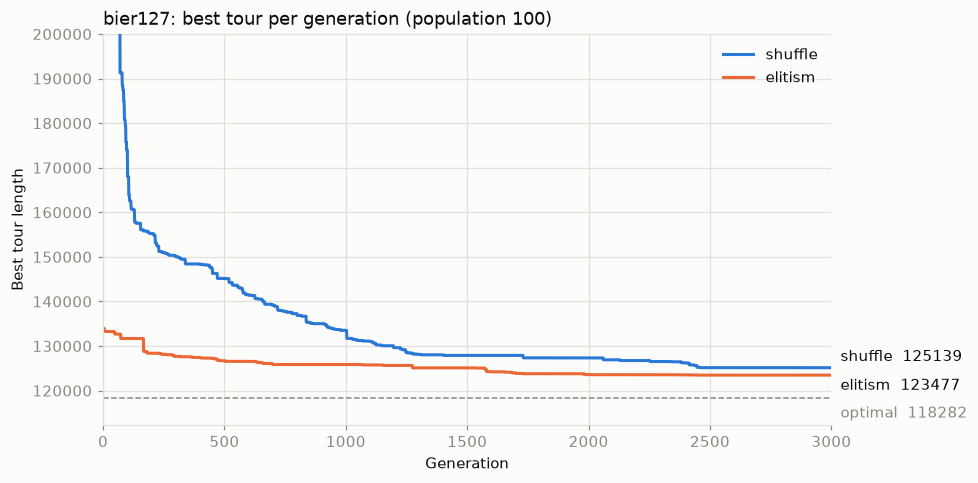
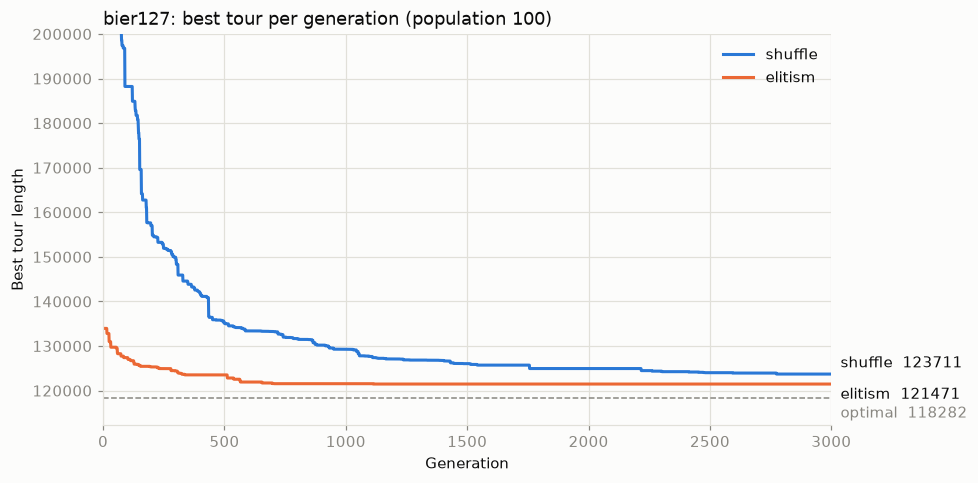
Default to a 50/50 one-point/OX crossover mix and document the comparison
- DEFAULT_CROSSOVER_MIX is now one-point 50%, OX 50%, the best mix when
  comparing six mixes on berlin52, bier127 and a280
- docs/compare_crossovers.py reruns the comparison
- README: crossover comparison table, GUI steps for the crossover mix,
  control panel close-up; screenshots and figures regenerated

diff --git a/docs/compare_crossovers.py b/docs/compare_crossovers.py
@@ -1,0 +1,64 @@
+# -*- coding: utf-8 -*-
+"""
+Compare crossover mixes, as in the README's "Comparing the crossovers" table:
+
+    python docs/compare_crossovers.py
+
+Every mix gets the same time budget on each problem, repeated with a few random
+seeds. The result is the average gap between the best tour found and the known
+optimum (lower is better). With the defaults it takes about 9 minutes; use
+--seconds and --runs to trade time for accuracy.
+"""
+
+import argparse
+import os
+import random
+import statistics
+import sys
+import time
+
+ROOT = os.path.dirname(os.path.dirname(os.path.abspath(__file__)))
+sys.path.insert(0, ROOT)
+
+from tsp_ga import GeneticAlgorithm  # noqa: E402  (needs the path above)
+from tsp_ga_init_pop import create_initial_population  # noqa: E402
+from tsp_parser import read_tsp_file  # noqa: E402
+
+OPTIMAL_LENGTHS = {"berlin52": 7542, "bier127": 118282, "a280": 2579}  # published by TSPLIB
+MIXES = {
+    "one-point 100%": {"one-point": 100},
+    "PMX 100%": {"pmx": 100},
+    "OX 100%": {"ox": 100},
+    "one-point/PMX 80/20": {"one-point": 80, "pmx": 20},
+    "one-point/OX 50/50": {"one-point": 50, "ox": 50},
+    "equal 34/33/33": {"one-point": 34, "pmx": 33, "ox": 33},
+}
+
+
+def main():
+    parser = argparse.ArgumentParser(description="Compare crossover mixes on a few TSPLIB problems.")
+    parser.add_argument("--seconds", type=float, default=10, help="time budget per run (default 10)")
+    parser.add_argument("--runs", type=int, default=3, help="runs per mix and problem (default 3)")
+    parser.add_argument("--population", type=int, default=100, help="population size (default 100)")
+    args = parser.parse_args()
+
+    print("%-20s %s" % ("mix", "  ".join("%9s" % name for name in OPTIMAL_LENGTHS)))
+    problems = {name: read_tsp_file(os.path.join(ROOT, "TSP_Problems", name + ".tsp")) for name in OPTIMAL_LENGTHS}
+    for label, mix in MIXES.items():
+        gaps = []
+        for name, problem in problems.items():
+            run_gaps = []
+            for seed in range(1, args.runs + 1):
+                random.seed(seed)  # the same seeds for every mix, so every mix gets the same start
+                tours = create_initial_population(problem, args.population, "elitism")
+                ga = GeneticAlgorithm(problem, tours, 0.9, mix)
+                stop_at = time.time() + args.seconds
+                while time.time() < stop_at:
+                    ga.step()
+                run_gaps.append(100.0 * (ga.best_length - OPTIMAL_LENGTHS[name]) / OPTIMAL_LENGTHS[name])
+            gaps.append(statistics.mean(run_gaps))
+        print("%-20s %s" % (label, "  ".join("%8.1f%%" % gap for gap in gaps)), flush=True)
+
+
+if __name__ == "__main__":
+    main()

diff --git a/tsp_ga.py b/tsp_ga.py
@@ -35,11 +35,12 @@ from tsp_ga_init_pop import nearest_neighbour_tour
 
 # The crossovers a pair of parents can be bred with, and the default share of
 # pairs (in percent) that use each one. See GeneticAlgorithm.crossover_mix.
+# Half one-point, half OX was the best mix in docs/compare_crossovers.py.
 CROSSOVER_ONE_POINT = "one-point"
 CROSSOVER_PMX = "pmx"
 CROSSOVER_OX = "ox"
 CROSSOVERS = (CROSSOVER_ONE_POINT, CROSSOVER_PMX, CROSSOVER_OX)
-DEFAULT_CROSSOVER_MIX = {CROSSOVER_ONE_POINT: 80, CROSSOVER_PMX: 20, CROSSOVER_OX: 0}
+DEFAULT_CROSSOVER_MIX = {CROSSOVER_ONE_POINT: 50, CROSSOVER_PMX: 0, CROSSOVER_OX: 50}
 
 
 # ---------------------------------------------------------------------------

diff --git a/README.md b/README.md
@@ -45,16 +45,22 @@ python tsp_gui.py
 
 ![The TSP Solver window after 6000 generations on a280](docs/images/gui.png)
 
+<img src="docs/images/controls.png" alt="The control panel" align="right" width="260">
+
 1. **Open TSP file...** and pick a problem from `TSP_Problems/`. `berlin52.tsp` is a good start.
 2. Choose how to create the **initial population** and its size, then
    **Create initial population**.
-3. Choose how many **generations** to run, the **crossover probability** and the
-   **crossover mix**, the percentage of pairs bred with each crossover type, then **Start**.
-   The mix must add up to 100. **Stop** pauses the run. **Start** again continues
-   from where it stopped. The crossover settings can also be changed during a run.
+3. Choose how many **generations** to run and the **crossover probability**.
+4. Set the **crossover mix**: the percentage of parent pairs bred with each
+   crossover type. The total must be 100 before **Start** is enabled.
+5. **Start**. **Stop** pauses the run, and **Start** again continues from where
+   it stopped. The crossover probability and mix can also be changed during a run.
 
-When a known optimal tour exists for the problem, the *Results* box shows how far
-the best tour found is from the optimum.
+The *Results* box shows the generation and the best distance. When a known
+optimal tour exists for the problem, it also shows how far the best tour is
+from the optimum.
+
+<br clear="right">
 
 **Command line**, without the GUI:
 
@@ -157,8 +163,9 @@ segment's cities `4 5 6` that leaves `1 9 3 7 8 2`. These fill the child after t
 segment (`1 9 3`) and then wrap around to the front (`7 8 2`).
 
 **Crossover mix.** Each pair of parents picks one of the three crossovers at
-random, using percentages you choose. The default is one-point 80%, PMX 20% and
-OX 0%. In code it's `GeneticAlgorithm(..., crossover_mix={"one-point": 50, "pmx": 0, "ox": 50})`.
+random, using percentages you choose. The default is one-point 50% and OX 50%,
+the best mix in the comparison under [Results](#comparing-the-crossovers).
+In code it's `GeneticAlgorithm(..., crossover_mix={"one-point": 50, "pmx": 0, "ox": 50})`.
 
 ### 4. Mutation
 
@@ -190,6 +197,33 @@ GA run:
 ![Best tour length per generation for both initial population modes](docs/images/convergence.png)
 
 To recreate the figures, run `python docs/make_figures.py`.
+
+### Comparing the crossovers
+
+Each crossover mix ran for 10 seconds, 3 times with different random seeds,
+starting from the same elitism population of 100. The numbers are the average
+gap between the best tour found and the optimum, so lower is better:
+
+| Crossover mix         | berlin52 | bier127 | a280  |
+|-----------------------|---------:|--------:|------:|
+| one-point 100%        |     0.8% |    4.7% | 12.6% |
+| PMX 100%              |     0.0% |    4.3% | 11.1% |
+| OX 100%               |     0.0% |    3.7% | 10.9% |
+| one-point/PMX 80/20   |     0.0% |    3.6% | 11.9% |
+| **one-point/OX 50/50** | **0.0%** | **2.4%** | **9.8%** |
+| equal 34/33/33        |     0.0% |    3.4% |  9.9% |
+
+* **berlin52** is too easy to tell them apart: almost every run finds the optimum.
+* **OX** is the best crossover on its own and one-point the worst. OX keeps which
+  city follows which, and for a tour that order is what matters.
+* **The best mixes** beat every single crossover. One-point/OX 50/50 was the best
+  of all, so it is the default. A likely reason: one-point with repair brings in short
+  nearest neighbour fragments, while OX passes on the parents' order, and the two
+  complement each other.
+
+Three runs per mix shows the trend, but small differences such as 9.8% against
+9.9% could be chance. To run the comparison yourself, which takes about 9 minutes,
+use `python docs/compare_crossovers.py`.
 
 ## Distances
 
@@ -230,14 +264,16 @@ stress test rather than something to solve.
 | [`tsp_gui.py`](tsp_gui.py)                 | the Tkinter GUI                                           |
 | [`tests/`](tests)                          | unit tests                                                |
 | [`docs/make_figures.py`](docs/make_figures.py) | recreates the README figures                          |
+| [`docs/compare_crossovers.py`](docs/compare_crossovers.py) | the crossover comparison table            |
 
 ## Ideas to try
 
 Good exercises if you are studying the code:
 
 1. Remove the duplicate check in `_select_survivors` and watch berlin52 get stuck.
-2. Compare the crossovers: run each one on its own at 100% on bier127 or a280.
-   Then try mixes. Does mixing help?
+2. Repeat the [crossover comparison](#comparing-the-crossovers) with more and
+   longer runs (`python docs/compare_crossovers.py --runs 10 --seconds 30`).
+   Do the conclusions hold? Find a better mix.
 3. Add **tournament selection**: pick parents by comparing a few random tours.
 4. Implement **edge recombination crossover (ERX)**, which builds children from
    the edges both parents share.
